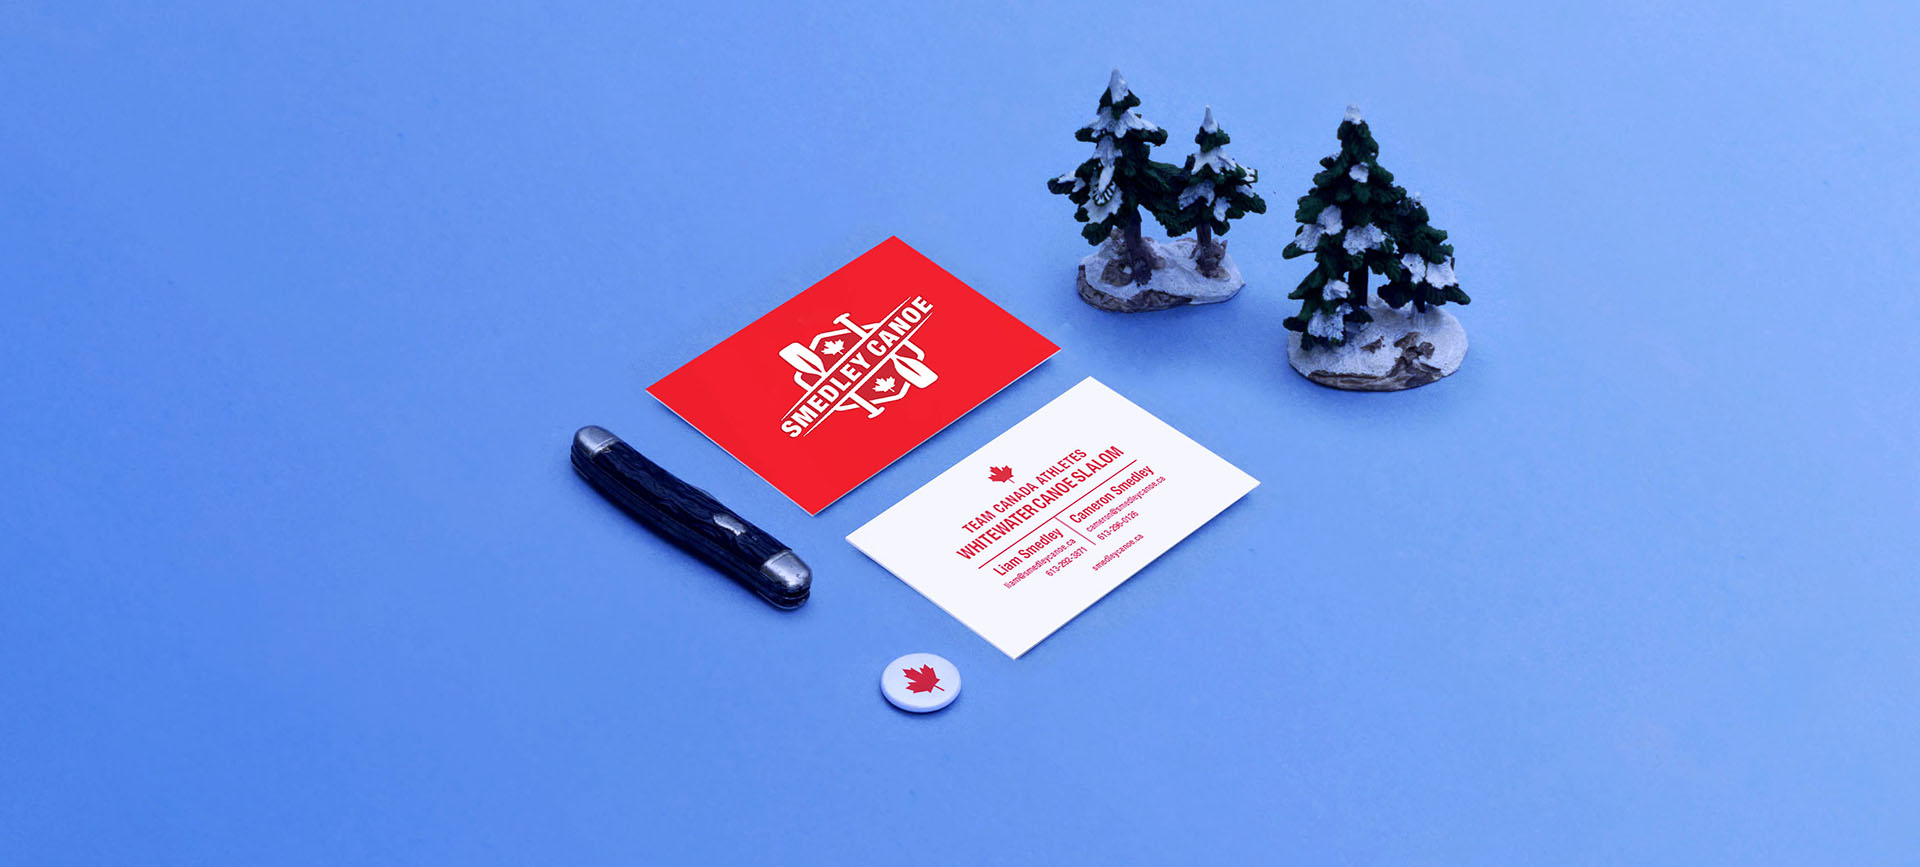
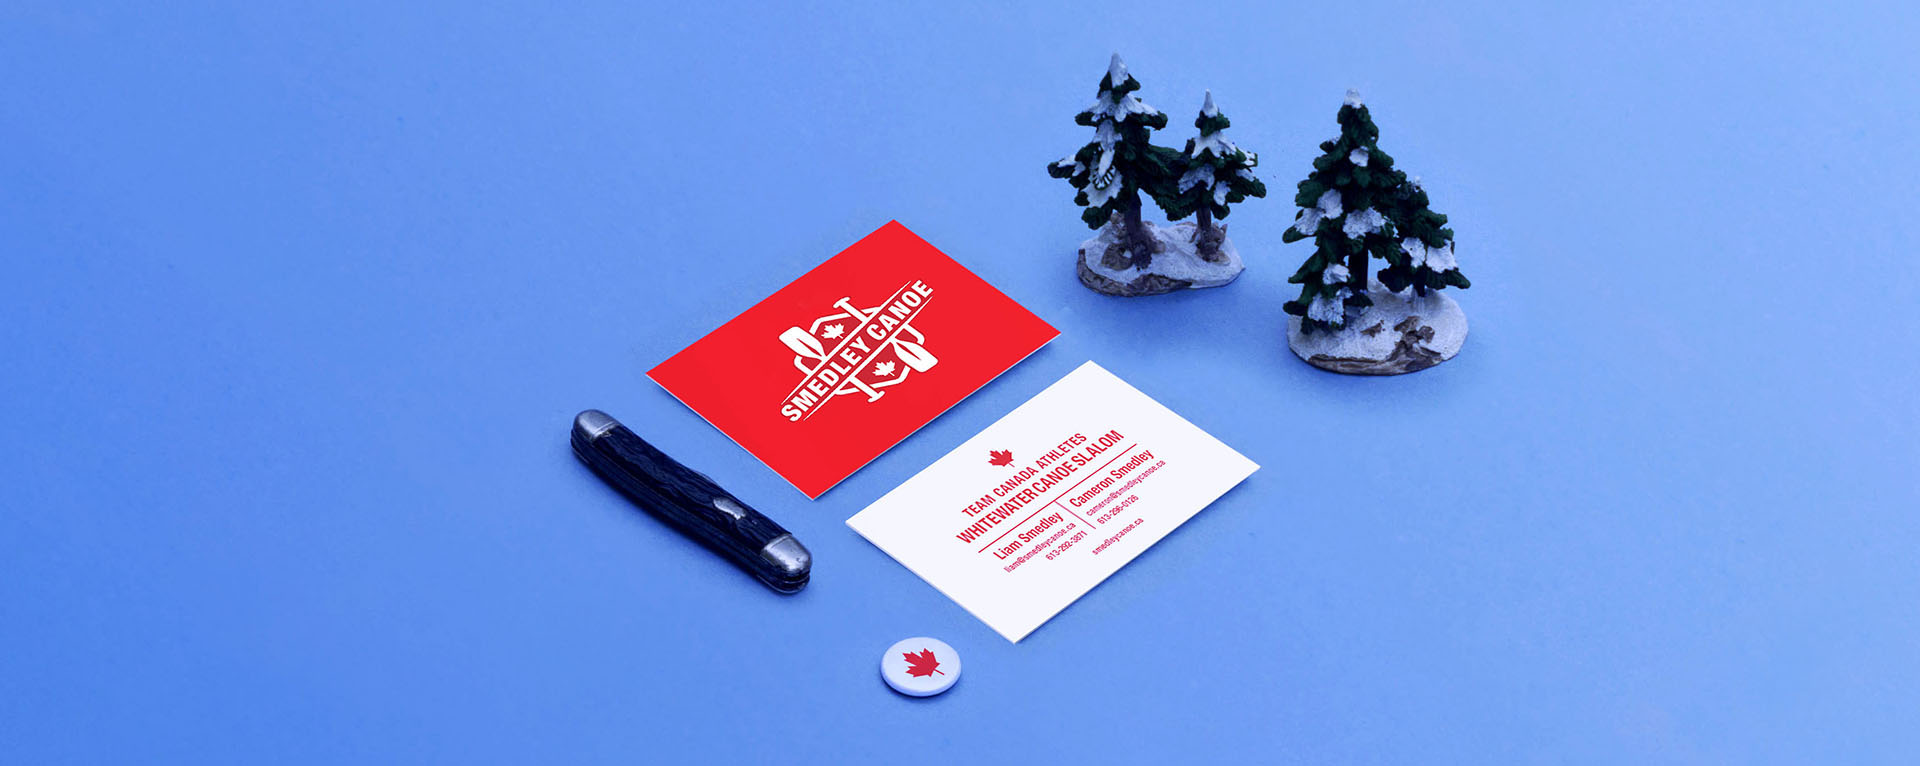
feat: added new photos to canoe pg

Changed region(s): [[0.2812, 0.0901, 0.7812, 0.9308], [0.6875, 0.1201, 0.7188, 0.1501]]

diff --git a/projects/canoe.html b/projects/canoe.html
@@ -6,20 +6,9 @@ description: Branding for Olympic Kayak Bothers, Cam and Liam Smedley.
 	
 	<main>
 
-		<div class="menu-collapsed">
-		 <div class="bar"></div>
-			<nav>
-			  <ul>
-			    <li><a href="#">Home</a></li>
-			    <li><a href="#">About</a></li>
-			    <li><a href="#">Clients</a></li>
-			    <li><a href="#">Contact Us</a></li>
-			  </ul>
-			</nav>  
-		</div>
 		<article>
 			<div class="viewbox unit unit-1 unit-s-1 unit-m-1 unit-l-1-1 island">
-				<img class="flex" src="{{site.baseurl}}img/canoelog.png" alt="Smedley Canoe Logo">
+				<img class="flex" src="{{site.baseurl}}img/canoelogo.png" alt="Smedley Canoe Logo">
 			</div>
 			<header class="viewbox unit unit-1 unit-s-1 unit-m-1 unit-l-1-1 island">
 				<h1><strong>Smedley Canoe </strong></h1>
